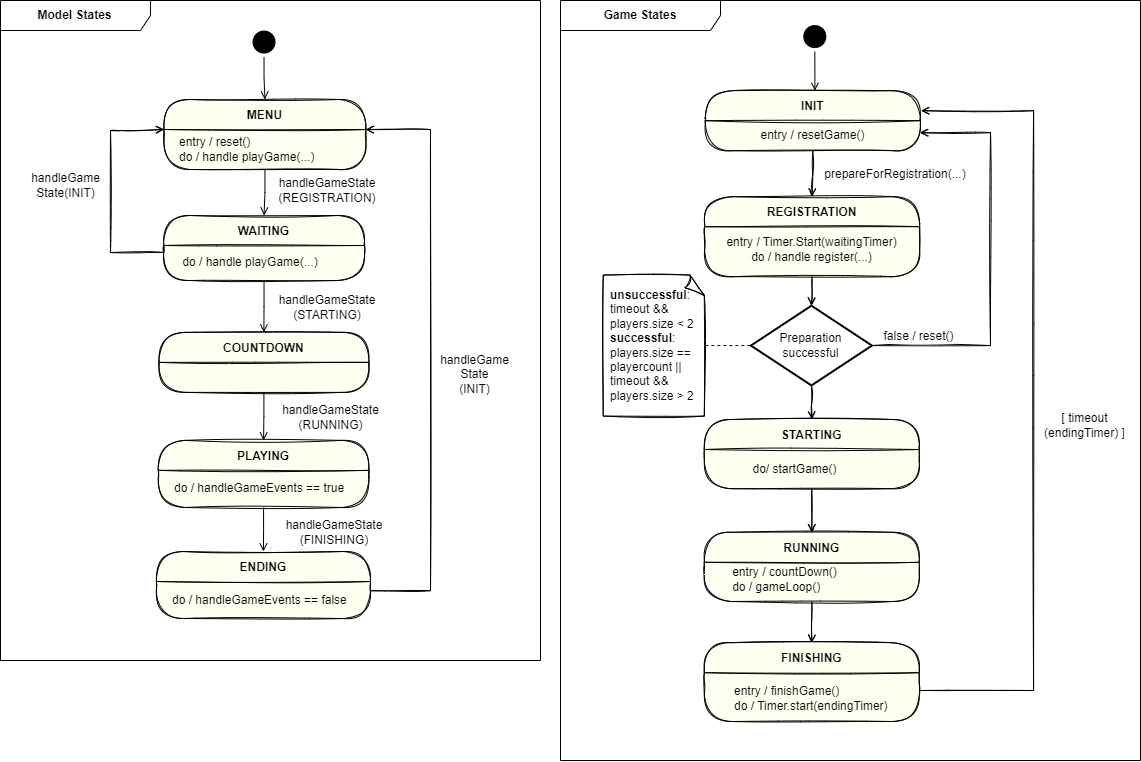
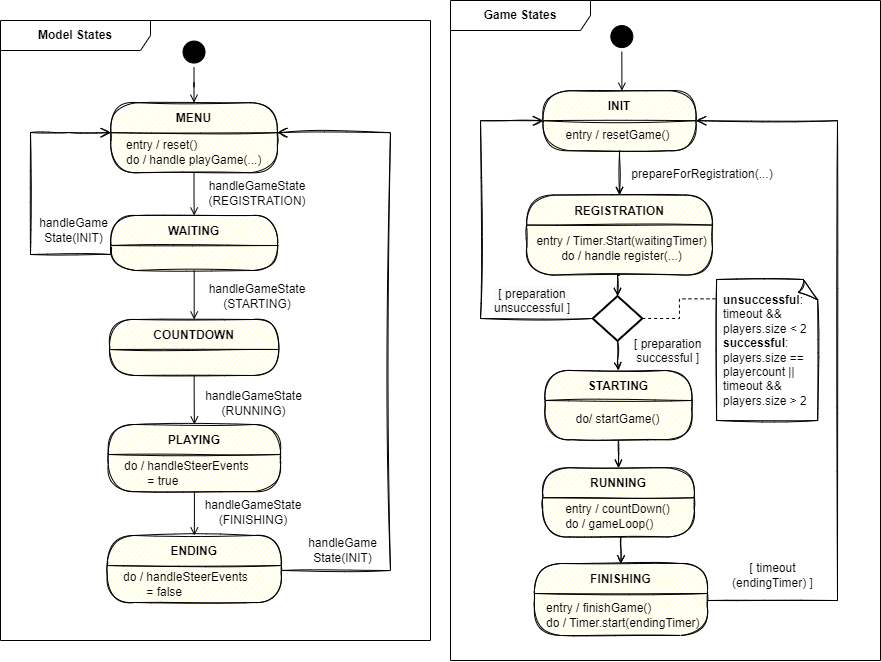
Diagramme aufgeräumt

diff --git a/src/main/java/vsp/trongame/application/model/gamemanagement/GameManager.java b/src/main/java/vsp/trongame/application/model/gamemanagement/GameManager.java
@@ -29,11 +29,11 @@ public class GameManager implements IGameManager, ITronModel {
     private IGame game;
     private boolean singleView;
     private ModelState currentState;
-    private boolean handleGameEvents;
+    private boolean handleSteerEvents;
 
     public GameManager() {
         this.currentState = ModelState.MENU;
-        this.handleGameEvents = false;
+        this.handleSteerEvents = false;
         this.listenersMap = new HashMap<>();
         this.listenersToPlayersMap = new HashMap<>();
     }
@@ -94,7 +94,7 @@ public class GameManager implements IGameManager, ITronModel {
 
     @Override
     public void handleSteerEvent(int id, String key) {
-        if (handleGameEvents) {
+        if (handleSteerEvents) {
             Steer steer = config.getSteer(key);
             if(steer != null) {
                 int playerId = steer.playerId();
@@ -119,7 +119,8 @@ public class GameManager implements IGameManager, ITronModel {
      */
     private void executeState() {
         if (currentState != ModelState.PLAYING) updateListeners();
-        if (currentState == ModelState.PLAYING) handleGameEvents = true;
+        if (currentState == ModelState.PLAYING) handleSteerEvents = true;
+        if (currentState == ModelState.ENDING) handleSteerEvents = false;
         if (currentState == ModelState.MENU) reset();
     }
 
@@ -134,7 +135,6 @@ public class GameManager implements IGameManager, ITronModel {
      * Resetting management data after ending state.
      */
     private void reset() {
-        handleGameEvents = false;
         listenersToPlayersMap.clear();
     }
 

diff --git a/Dokumentation/App/TronGame_Documentation.md b/Dokumentation/App/TronGame_Documentation.md
@@ -239,6 +239,7 @@ Caller-Objekte können darüber hinaus das ICaller-Interface implementieren, das
 
 ## 6.2 Ebene 2: Model
 ### 6.2.1 States
+Die in den States beschriebenen Aktivitäten sind in Abschnitt [Activities im Model](#6.2.3-Activities-im-Model) näher beschrieben.
 ![image info](./diagrams/laufzeit/States.png)
 
 ### 6.2.2 Details der Use Cases im Model
@@ -247,11 +248,13 @@ Caller-Objekte können darüber hinaus das ICaller-Interface implementieren, das
 ![image info](./diagrams/laufzeit/model_UC3.2_seeKeyMappings.png)
 
 ### 6.2.3 Activities im Model
-### 6.2.3.1 
+### 6.2.3.1 Start 
 ![image info](./diagrams/laufzeit/activity_start1.png)
 ![image info](./diagrams/laufzeit/activity_start2.png)
+### 6.2.3.2 Play 
 ![image info](./diagrams/laufzeit/activity_runGame_loop.png)
 ![image info](./diagrams/laufzeit/activity_runGame_collision.png)
+### 6.2.3.3 End 
 ![image info](./diagrams/laufzeit/activity_end.png)
 
 # 7. Verteilungssicht
